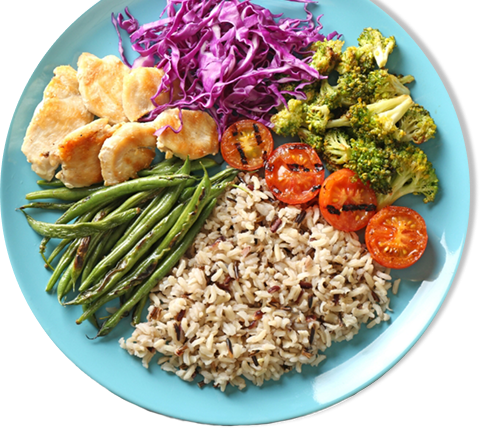
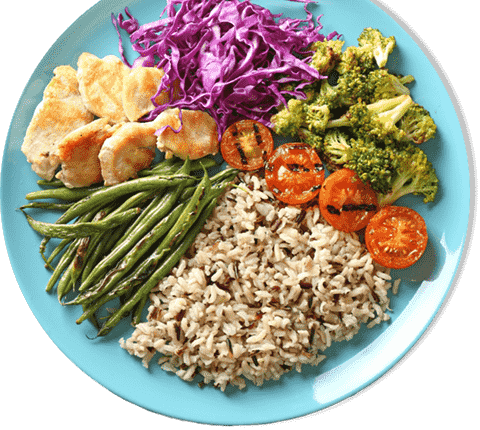
Refactor code structure for improved readability and maintainability

diff --git a/src/app/components/recipe-card-cook-book-component/recipe-card-cook-book-component.html b/src/app/components/recipe-card-cook-book-component/recipe-card-cook-book-component.html
@@ -1,21 +1,21 @@
 <section>
   @if (text == 'Italian') {
     <p>{{ text }} cuisine 🫴🏼</p>
-    <img class="plate1" src="assets/img/italian.png" alt="" />
+    <img class="plate1" src="assets/img/italian.jpg" alt="" />
   } @else if (text == 'German') {
     <p>{{ text }} cuisine 🥨</p>
-    <img class="plate1" src="assets/img/german.png" alt="" />
+    <img class="plate1" src="assets/img/german.jpg" alt="" />
   } @else if (text == 'Japanese') {
     <p>{{ text }} cuisine 🍙</p>
-    <img class="plate1" src="assets/img/japanese.png" alt="" />
+    <img class="plate1" src="assets/img/japanese.jpg" alt="" />
   } @else if (text == 'Gourmet') {
     <p>{{ text }} cuisine ✨</p>
-    <img class="plate1" src="assets/img/gourmet.png" alt="" />
+    <img class="plate1" src="assets/img/gourmet.jpg" alt="" />
   } @else if (text == 'Indian') {
     <p>{{ text }} cuisine 🍛</p>
-    <img class="plate1" src="assets/img/indian.png" alt="" />
+    <img class="plate1" src="assets/img/indian.jpg" alt="" />
   } @else if (text == 'Fusion') {
     <p>{{ text }} cuisine 🍢</p>
-    <img class="plate1" src="assets/img/fusion.png" alt="" />
+    <img class="plate1" src="assets/img/fusion.jpg" alt="" />
   }
 </section>

diff --git a/src/styles.scss b/src/styles.scss
@@ -51,6 +51,7 @@ img {
 
 @font-face {
   font-family: 'Quicksand';
+  // src: url('/assets/fonts/Quicksand.ttf') format('truetype');
   src: url('../public/assets/fonts/Quicksand.ttf') format('truetype');
 }
 
